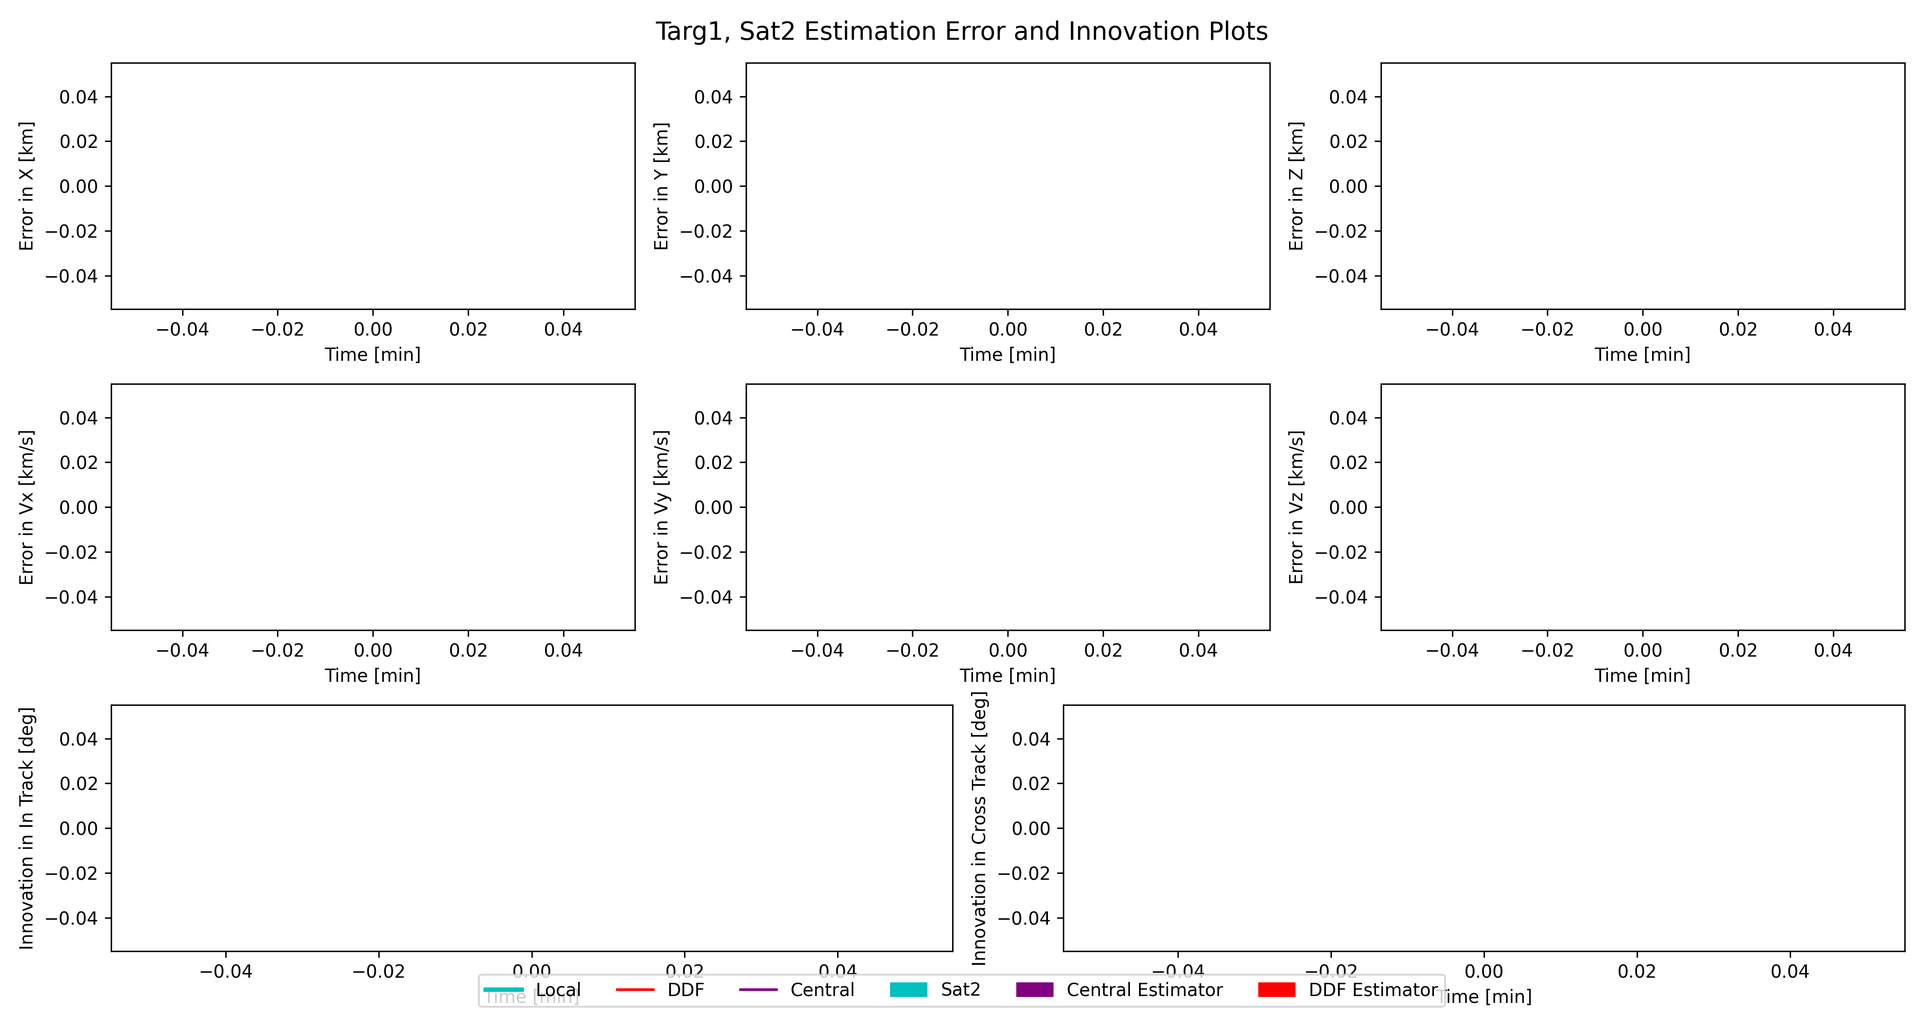
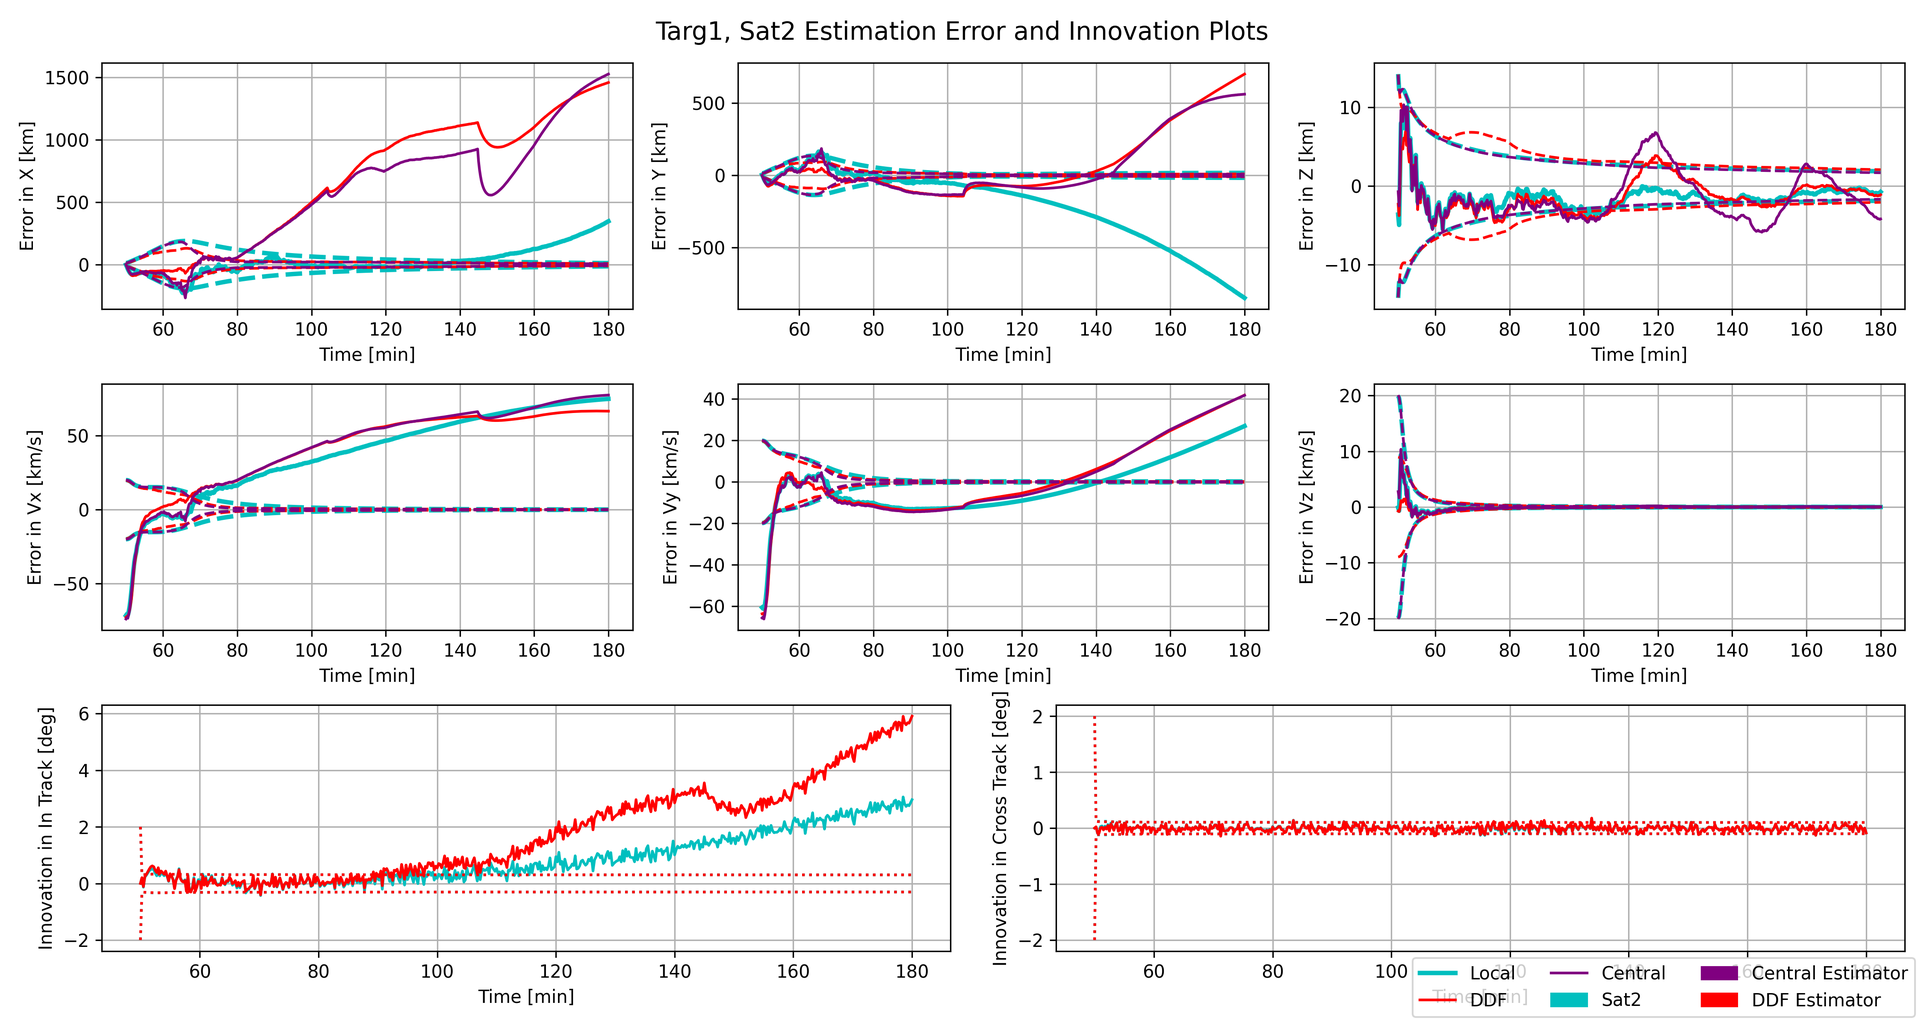
Tried new test case

diff --git a/phase1/environmentClass.py b/phase1/environmentClass.py
@@ -87,6 +87,9 @@ class environment:
                 # This will collect the bearing measurement, if avaliable, and also perform local estimation on the target
                 # If a measurement is collected, the flag will be set to true
                 collectedFlag[targ][sat] = sat.collect_measurements_and_filter(targ)
+                
+                # if collectedFlag[targ][sat]:
+                #     print(f"Satellite {sat.name} collected a measurement on target {targ.name} at time {self.time:.2f}")
 
         # Now perform data fusion on the collected measurements
         # First check, did any new satellites get measurements?
@@ -102,14 +105,15 @@ class environment:
                 if sat.ddfEstimator:
                     for neighbor in self.comms.G.neighbors(sat):
                     # Check if the most recent estimate time is newer than the neighbor
-                        # Check for if sat has any estimates yet
+                    
+                        # Check for if this sat has any estimates yet
                         if len(sat.ddfEstimator.estHist[targ.targetID].keys()) == 0:
                             continue # If sat doesnt have estimates yet, nothing to send
 
                         # Most recent measurement time by satellite
                         satTime = max(sat.ddfEstimator.estHist[targ.targetID].keys())
 
-                        # Check if the neighbor has any estimates yet
+                        # Check if this neighbor has any estimates yet
                         # TODO: IMPLCIT REQUIREMENT FOR TIMINGS TO BE KNOWN FOR NEIGHBOR
                         if len(neighbor.ddfEstimator.estHist[targ.targetID].keys()) == 0:
                             # If neighbor doesnt have estimates yet, should send the most recent estimate, initalizing the neighbors filter
@@ -117,12 +121,13 @@ class environment:
                             continue
 
                         # Most recent measurement time by neighbor
+                        # TODO: Find most recent and best quality measutrment to send
                         neighborTime = max(neighbor.ddfEstimator.estHist[targ.targetID].keys())
 
-                        # If the neighbor has an older estimate, send the most recent estimate
-                        if satTime > neighborTime:
+                        # If this neighbor has an old estimate, lets send our most recent estimate
+                        if satTime >= neighborTime:
                             self.comms.send_measurement(sat, neighbor, sat.ddfEstimator.estHist[targ.targetID][satTime], sat.ddfEstimator.covarianceHist[targ.targetID][satTime], targ.targetID, satTime)
-
+                    
                     # Now, each satellite will perform covariance intersection on the measurements sent to it
                     for sat in self.sats:
                         # For each satellite, perform CI on the measurements it received
@@ -162,6 +167,7 @@ class environment:
 
         # Update the communication network for the new sat position:
             self.comms.make_edges(self.sats)
+        
 
 # Plot the current state of the environment
     def plot(self):
@@ -199,6 +205,13 @@ class environment:
             self.ax.scatter(x, y, z, s=20, marker = '*', color = targ.color, label=targ.name)
             
         self.ax.legend()
+        
+    # Set the axis limits
+        self.ax.set_xlim([-15000, 15000])
+        self.ax.set_ylim([-15000, 15000])
+        self.ax.set_zlim([-15000, 15000])
+        
+        self.ax.view_init(elev=30, azim=65)
 
     # PLOT COMMUNICATION STRUCTURE
         if self.comms.displayStruct:
@@ -214,7 +227,6 @@ class environment:
         
 
 # Plots all of the results to the user.
-# Using bearings only measurement now
     def plotResults(self, time_vec, savePlot, saveName, central = False):
         # Close the sim plot so that sizing of plots is good
         plt.close('all')
@@ -231,37 +243,35 @@ class environment:
                     
                     # Subtitle with the name of the target
                     fig.suptitle(f"{targ.name}, {sat.name} Estimation Error and Innovation Plots", fontsize=14)
-
                     # Create a GridSpec object with 3 rows and 6 columns (3 col x y z, 3 col vx vy vz , 2 col alpha beta)
                     gs = gridspec.GridSpec(3, 6)
-
+                    
                     # Collect axes in a list of lists for easy access
                     axes = []
-
                     # Create subplots in the first two rows (3 2-columns spanning the width)
                     for i in range(3):  # 2 rows * 6 columns = 3
                         ax = fig.add_subplot(gs[0, 2*i:2*i + 2])
+                        ax.grid(True)
                         axes.append(ax)
                         
                         ax = fig.add_subplot(gs[1, 2*i:2*i + 2])
+                        ax.grid(True)
                         axes.append(ax)
-
+                        
                     # Create subplots in the third row (3 columns spanning the width)
                     for i in range(2):  # 1 row * 2 columns = 2
                         ax = fig.add_subplot(gs[2, 3*i:3*i+3])
+                        ax.grid(True)
                         axes.append(ax)
-
                     # Set the labels for the subplots
                     # Do the error vs covariance plots on the first row:
                     for i in range(6):
                         axes[i].set_xlabel("Time [min]")
                         axes[i].set_ylabel(f"Error in {state_labels[i]}")
-
                     # Do the innovation vs innovation covariance plots on the third row:
                     for i in range(2):  # Note: only 2 plots in the third row
                         axes[6 + i].set_xlabel("Time [min]")
                         axes[6 + i].set_ylabel(f"Innovation in {meas_labels[i]}")
-
             # FOR EACH SATELLITE, EXTRACT ALL DATA for independent estimator and ddf estimator
                     satColor = sat.color
                     trueHist = targ.hist
@@ -278,7 +288,6 @@ class environment:
                     times = [time for time in time_vec.value if time in estHist]
                     ddf_times = [time for time in time_vec.value if time in ddf_estHist]
                     ddf_innovation_times = [time for time in time_vec.value if time in ddf_innovationHist]
-
                     # ERROR PLOTS
                     for i in range(6):
                         axes[i].plot(times, [estHist[time][i] - trueHist[time][i] for time in times], color=satColor, label='Local', linewidth=2.5)#, label='Local Estimate'
@@ -299,7 +308,6 @@ class environment:
                         axes[6 + i].plot(ddf_innovation_times, [2 * np.sqrt(ddf_innovationCovHist[time][i][i]) for time in ddf_innovation_times], color='r', linestyle='dotted')#, label='DDF 2 Sigma Bounds')
                         axes[6 + i].plot(ddf_innovation_times, [-2 * np.sqrt(ddf_innovationCovHist[time][i][i]) for time in ddf_innovation_times], color='r', linestyle='dotted')
                         
-
                     # IF CENTRAL ESTIMATOR FLAG IS SET, ALSO PLOT THAT:
                     # USE COLOR PINK FOR CENTRAL ESTIMATOR
                     if central:
@@ -310,13 +318,12 @@ class environment:
                             innovationHist = self.centralEstimator.innovationHist[targ.targetID]
                             innovationCovHist = self.centralEstimator.innovationCovHist[targ.targetID]
                             times = [time for time in time_vec.value if time in estHist]
-
                         # ERROR PLOTS
                         for i in range(6):
                             axes[i].plot(times, [estHist[time][i] - trueHist[time][i] for time in times], color='purple', label='Central')
                             axes[i].plot(times, [2 * np.sqrt(covHist[time][i][i]) for time in times], color='purple', linestyle='dashed')#, label='2 Sigma Bounds')
                             axes[i].plot(times, [-2 * np.sqrt(covHist[time][i][i]) for time in times], color='purple', linestyle='dashed')
-
+                    
                     # COLLECT LEGENDS REMOVING DUPLICATES
                     handles, labels = [], []
                     for ax in axes:
@@ -324,22 +331,22 @@ class environment:
                             if label not in labels:  # Avoid duplicates in the legend
                                 handles.append(handle)
                                 labels.append(label)
-
-                    # AND SATELLITE COLORS
-                    # for sat in self.sats:
-                    #     if targ.targetID in sat.targetIDs:
-                            # EXTRACT ALL DATA
+                    
+                    # SATELLITE COLORS
                     satColor = sat.color
+                    
                     # Create a Patch object for the satellite
                     satPatch = Patch(color=satColor, label=sat.name)
+                    
                     # Add the Patch object to the handles and labels
                     handles.append(satPatch)
                     labels.append(sat.name)
-
+                    
                     # ALSO ADD CENTRAL IF FLAG IS SET
                     if central:
                         # Create a Patch object for the central estimator
                         centralPatch = Patch(color='purple', label='Central Estimator')
+                        
                         # Add the Patch object to the handles and labels
                         handles.append(centralPatch)
                         labels.append('Central Estimator')
@@ -348,18 +355,22 @@ class environment:
                     ddfPatch = Patch(color='r', label='DDF Estimator')
                     handles.append(ddfPatch)
                     labels.append('DDF Estimator')
+                    
+                    # ADD LEGEND
+                    fig.legend(handles, labels, loc='lower right', ncol=3, bbox_to_anchor=(1, 0))
+                    plt.tight_layout()
+                        
+                    # SAVE PLOT
+                    if savePlot:
+                        filePath = os.path.dirname(os.path.realpath(__file__))
+                        plotPath = os.path.join(filePath, 'plots')
+                        os.makedirs(plotPath, exist_ok=True)
+                        if saveName is None:
+                            plt.savefig(os.path.join(plotPath, f"{targ.name}_{sat.name}_results.png"), dpi=300)
+                            return
+                        plt.savefig(os.path.join(plotPath, f"{saveName}_{targ.name}_{sat.name}_results.png"), dpi=300)
 
-        # ADD LEGEND
-            fig.legend(handles, labels, loc='lower center', ncol=10, bbox_to_anchor=(0.5, 0.01))
-            plt.tight_layout()
-            if savePlot:
-                filePath = os.path.dirname(os.path.realpath(__file__))
-                plotPath = os.path.join(filePath, 'plots')
-                os.makedirs(plotPath, exist_ok=True)
-                if saveName is None:
-                    plt.savefig(os.path.join(plotPath, f"{targ.name}_{sat.name}_results.png"), dpi=300)
-                    return
-                plt.savefig(os.path.join(plotPath, f"{saveName}_{targ.name}_{sat.name}_results.png"), dpi=300)
+                    plt.close()
 
 # Returns the NEES and NIS data for the simulation
     def collectData(self):

diff --git a/phase1/estimatorClass.py b/phase1/estimatorClass.py
@@ -48,12 +48,12 @@ class centralEstimator:
             # start with true position plus some noise
             est_prior = np.array([target.pos[0], 0, target.pos[1], 0, target.pos[2], 0]) + np.random.normal(0, 2, 6) 
             # start with some covariance, about +- 5 km and +- 20 km/min, then plus some noise 
-            P_prior = np.array([[5, 0, 0, 0, 0, 0],
-                                [0, 20, 0, 0, 0, 0],
-                                [0, 0, 5, 0, 0, 0],
-                                [0, 0, 0, 20, 0, 0],
-                                [0, 0, 0, 0, 5, 0],
-                                [0, 0, 0, 0, 0, 20]]) + np.random.normal(0, 1, (6,6))*np.eye(6)
+            P_prior = np.array([[50, 0, 0, 0, 0, 0],
+                                [0, 100, 0, 0, 0, 0],
+                                [0, 0, 50, 0, 0, 0],
+                                [0, 0, 0, 100, 0, 0],
+                                [0, 0, 0, 0, 50, 0],
+                                [0, 0, 0, 0, 0, 100]]) + np.random.normal(0, 1, (6,6))*np.eye(6)
         # Store these and return for first iteration
             self.estHist[targetID][envTime] = est_prior
             self.covarianceHist[targetID][envTime] = P_prior
@@ -148,7 +148,7 @@ class centralEstimator:
         self.nisHist[targetID][envTime] = nis
 
 
-    def calculate_Q(self, dt, intensity=np.array([0.001, 5, 5])):
+    def calculate_Q(self, dt, intensity=np.array([0.001, 50, 5])):
         # Use Van Loan's method to tune Q using the matrix exponential
         
         # Define the state transition matrix, A.
@@ -222,13 +222,13 @@ class indeptEstimator:
     # If no prior estimates, use the first measurement and assume no velocity
             # start with true position plus some noise
             est_prior = np.array([target.pos[0], 0, target.pos[1], 0, target.pos[2], 0]) + np.random.normal(0, 2, 6) 
-            # start with some covariance, about +- 5 km and +- 15 km/min, then plus some noise 
-            P_prior = np.array([[5, 0, 0, 0, 0, 0],
-                                [0, 20, 0, 0, 0, 0],
-                                [0, 0, 5, 0, 0, 0],
-                                [0, 0, 0, 20, 0, 0],
-                                [0, 0, 0, 0, 5, 0],
-                                [0, 0, 0, 0, 0, 20]]) + np.random.normal(0, 1, (6,6))*np.eye(6)
+            # start with some covariance, about +- 5 km and +- 100 km/min, then plus some noise 
+            P_prior = np.array([[50, 0, 0, 0, 0, 0],
+                                [0, 100, 0, 0, 0, 0],
+                                [0, 0, 50, 0, 0, 0],
+                                [0, 0, 0, 100, 0, 0],
+                                [0, 0, 0, 0, 50, 0],
+                                [0, 0, 0, 0, 0, 100]]) + np.random.normal(0, 1, (6,6))*np.eye(6)
         # Store these and return for first iteration
             self.estHist[targetID][envTime] = est_prior
             self.covarianceHist[targetID][envTime] = P_prior
@@ -312,7 +312,7 @@ class indeptEstimator:
         self.nisHist[targetID][envTime] = nis
                                
 
-    def calculate_Q(self, dt, intensity=np.array([0.001, 5, 5])):
+    def calculate_Q(self, dt, intensity=np.array([0.001, 50, 5])):
         # Use Van Loan's method to tune Q using the matrix exponential
         
         # Define the state transition matrix, A.
@@ -439,6 +439,9 @@ class ddfEstimator:
                 covPrior = np.linalg.inv(omegaOpt * np.linalg.inv(cov1) + (1 - omegaOpt) * np.linalg.inv(cov2))
                 estPrior_prop = covPrior @ (omegaOpt * np.linalg.inv(cov1) @ estPrior_prop + (1 - omegaOpt) * np.linalg.inv(cov2) @ estSent)
 
+                # Print information that was just fused
+                #print(str(sat.name) + " fused new estimate and covariance from " + str(commNode['queued_data'][targetID][sentTime]['sender']) + " at " + str(sentTime) + " with omega = " + str(omegaOpt))
+                
         # Finally, save the fused estimate and covariance
             self.estHist[targetID][sentTime] = estPrior_prop
             self.covarianceHist[targetID][sentTime] = covPrior
@@ -462,12 +465,12 @@ class ddfEstimator:
     # If no prior estimates, use the first measurement and assume no velocity
             # start with true position plus some noise
             est_prior = np.array([target.pos[0], 0, target.pos[1], 0, target.pos[2], 0]) + np.random.normal(0, 2, 6) 
-            # start with some covariance, about +- 5 km and +- 15 km/min, then plus some noise 
-            P_prior = np.array([[5, 0, 0, 0, 0, 0],
-                                [0, 20, 0, 0, 0, 0],
-                                [0, 0, 5, 0, 0, 0],
-                                [0, 0, 0, 20, 0, 0],
-                                [0, 0, 0, 0, 5, 0],
+            # start with some covariance, about +- 5 km and +- 100 km/min, then plus some noise 
+            P_prior = np.array([[50, 0, 0, 0, 0, 0],
+                                [0, 100, 0, 0, 0, 0],
+                                [0, 0, 50, 0, 0, 0],
+                                [0, 0, 0, 100, 0, 0],
+                                [0, 0, 0, 0, 50, 0],
                                 [0, 0, 0, 0, 0, 20]]) + np.random.normal(0, 1, (6,6))*np.eye(6)
             
         # Store these and return for first iteration
@@ -551,7 +554,7 @@ class ddfEstimator:
         self.neesHist[targetID][envTime] = nees
         self.nisHist[targetID][envTime] = nis
                                
-    def calculate_Q(self, dt, intensity=np.array([0.001, 5, 5])):
+    def calculate_Q(self, dt, intensity=np.array([0.001, 50, 5])):
         # Use Van Loan's method to tune Q using the matrix exponential
         
         # Define the state transition matrix, A.

diff --git a/phase1/main.py b/phase1/main.py
@@ -14,11 +14,12 @@ from commClass import comms
 #####################
 def create_environment():
     # Define a sensor model:
-    sens1 = sensor(name = 'Sensor 1', fov = 115, bearingsError = np.array([0.5, 0.5]))
-    sens2 = sensor(name = 'Sensor 2', fov = 50, bearingsError = np.array([0.5, 0.5]))
+    sens = sensor(name = 'Sensor', fov = 20, bearingsError = np.array([0.15, 0.05]))
+    #sens1 = sensor(name = 'Sensor 1', fov = 20, bearingsError = np.array([0.15, 0.05]))
+    #sens2 = sensor(name = 'Sensor 2', fov = 20, bearingsError = np.array([0.15, 0.05]))
    
     # Define targets for the satellites to track:
-    targetIDs = [1,2]
+    targetIDs = [1]#,2]
 
     # Define local estimators:
     local = indeptEstimator(targetIDs = targetIDs)
@@ -30,23 +31,23 @@ def create_environment():
     central = centralEstimator(targetIDs = targetIDs) 
 
     # Define the satellites:
-    sat1 = satellite(name = 'Sat1', sensor = deepcopy(sens1), targetIDs=targetIDs, indeptEstimator=deepcopy(local), ddfEstimator=deepcopy(ddf),  a = Earth.R + 1000 * u.km, ecc = 0, inc = 90, raan = -35, argp = -15, nu = 0, color='b')
-    sat2 = satellite(name = 'Sat2', sensor = deepcopy(sens2), targetIDs=targetIDs, indeptEstimator=deepcopy(local), ddfEstimator=deepcopy(ddf),  a = Earth.R + 5000 * u.km, ecc = 0, inc = 0, raan = -35, argp = -25, nu = 0, color='c')
-    # sat3 = satellite(name = 'Sat3', sensor = deepcopy(sens), targetIDs=targetIDs, indeptEstimator=deepcopy(local), ddfEstimator=deepcopy(ddf),  a = Earth.R + 1000 * u.km, ecc = 0, inc = 90, raan = -45, argp = -50, nu = 0, color='y')
-    # sat4 = satellite(name = 'Sat4', sensor = deepcopy(sens), targetIDs=targetIDs, indeptEstimator=deepcopy(local), ddfEstimator=deepcopy(ddf),  a = Earth.R + 1000 * u.km, ecc = 0, inc = 0, raan = -45, argp = -30, nu = 0, color='r')
+    sat1 = satellite(name = 'Sat1', sensor = deepcopy(sens), targetIDs=targetIDs, indeptEstimator=deepcopy(local), ddfEstimator=deepcopy(ddf),  a = Earth.R + 12000 * u.km, ecc = 0, inc = 90, raan = -35, argp = -55, nu = 0, color='b')
+    sat2 = satellite(name = 'Sat2', sensor = deepcopy(sens), targetIDs=targetIDs, indeptEstimator=deepcopy(local), ddfEstimator=deepcopy(ddf),  a = Earth.R + 12000 * u.km, ecc = 0, inc = 0, raan = -35, argp = -55, nu = 0, color='c')
+    sat3 = satellite(name = 'Sat3', sensor = deepcopy(sens), targetIDs=targetIDs, indeptEstimator=deepcopy(local), ddfEstimator=deepcopy(ddf),  a = Earth.R + 12000 * u.km, ecc = 0, inc = 90, raan = 0, argp = -90, nu = 0, color='y')
+    sat4 = satellite(name = 'Sat4', sensor = deepcopy(sens), targetIDs=targetIDs, indeptEstimator=deepcopy(local), ddfEstimator=deepcopy(ddf),  a = Earth.R + 12000 * u.km, ecc = 0, inc = 90, raan = 35, argp = -125, nu = 0, color='r')
     # sat5 = satellite(name = 'Sat5', sensor = deepcopy(sens), targetIDs=targetIDs, indeptEstimator=deepcopy(local), ddfEstimator=deepcopy(ddf),  a = Earth.R + 1000 * u.km, ecc = 0, inc = 0, raan = -45, argp = -60, nu = 0, color='g')
     # sat6 = satellite(name = 'Sat6', sensor = deepcopy(sens), targetIDs=targetIDs, indeptEstimator=deepcopy(local), ddfEstimator=deepcopy(ddf),  a = Earth.R + 1000 * u.km, ecc = 0, inc = 0, raan = -45, argp = -90, nu = 0, color='m')
 
-    sats = [sat1, sat2]#, sat3, sat4, sat5, sat6]
+    sats = [sat1, sat2, sat3, sat4]#, sat3, sat4, sat5, sat6]
 
     # Define the target objects:
-    targ1 = target(name = 'Targ1', targetID=1, cords = np.array([90,0,0]), heading=0, speed=0, climbrate = 0, color = 'k')
-    targ2 = target(name = 'Targ2', targetID=2, cords = np.array([0,-60,0]), heading=90, speed=200, climbrate = 0, color = 'k')
+    targ1 = target(name = 'Targ1', targetID=1, cords = np.array([0,-90,0]), heading=90, speed=95, climbrate = 0, color = 'k')
+    #targ2 = target(name = 'Targ2', targetID=2, cords = np.array([0,-90,0]), heading=90, speed=100, climbrate = 0, color = 'k')
     
-    targs = [targ1, targ2]
+    targs = [targ1]#, targ2]
 
     # Define the communication network:
-    comms_network = comms(sats, maxNeighbors = 3, maxRange = 5000*u.km, minRange = 500*u.km, displayStruct = True)
+    comms_network = comms(sats, maxNeighbors = 3, maxRange = 50000*u.km, minRange = 1*u.km, displayStruct = True)
 
     # Create and return an environment instance:
     return environment(sats, targs, comms_network, central)
@@ -209,10 +210,10 @@ def testCase_environment():
 
 if __name__ == "__main__":
     # Vector of time for simulation:
-    time_vec = np.linspace(0, 10, 11) * u.minute
+    time_vec = np.linspace(50, 180, 130*4 + 1) * u.minute
     
     env = create_environment()
-    env.simulate(time_vec, savePlot = True, saveName = "new", showSim = True)
+    env.simulate(time_vec, savePlot = True, saveName = "new", showSim = False)
         
     # Plot the NEES and NIS results:
     # plot_NEES_NIS(simData)
@@ -228,4 +229,4 @@ if __name__ == "__main__":
     #     simData[i] = env.simulate(time_vec, savePlot = True, saveName = "CI", showSim = False)
 
     # Save the gif:
-    env.render_gif(fileName = 'satellite_simulation.gif', fps = 5)
+    env.render_gif(fileName = 'satellite_simulation.gif', fps = 15)
